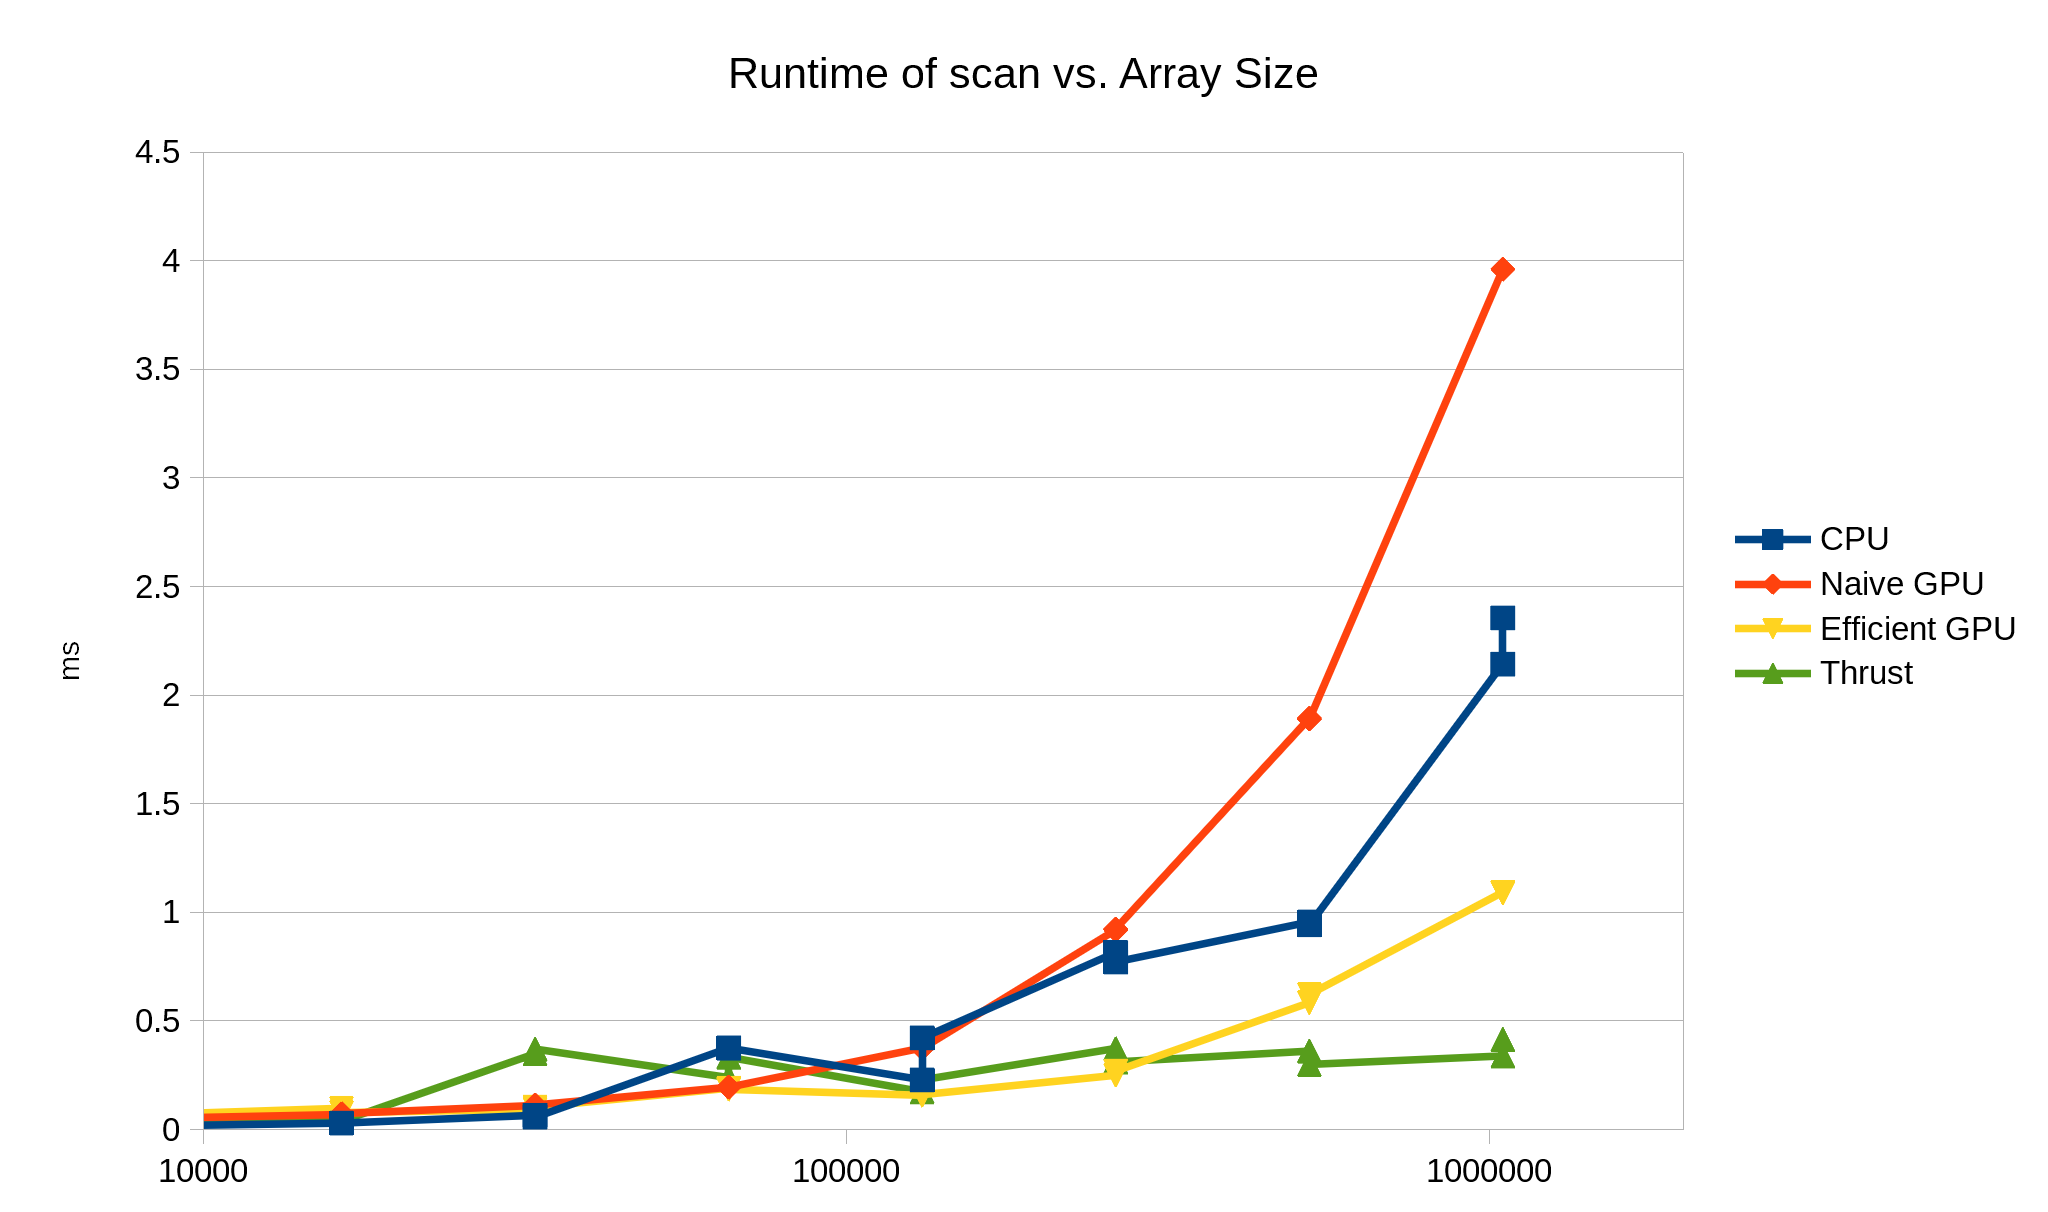
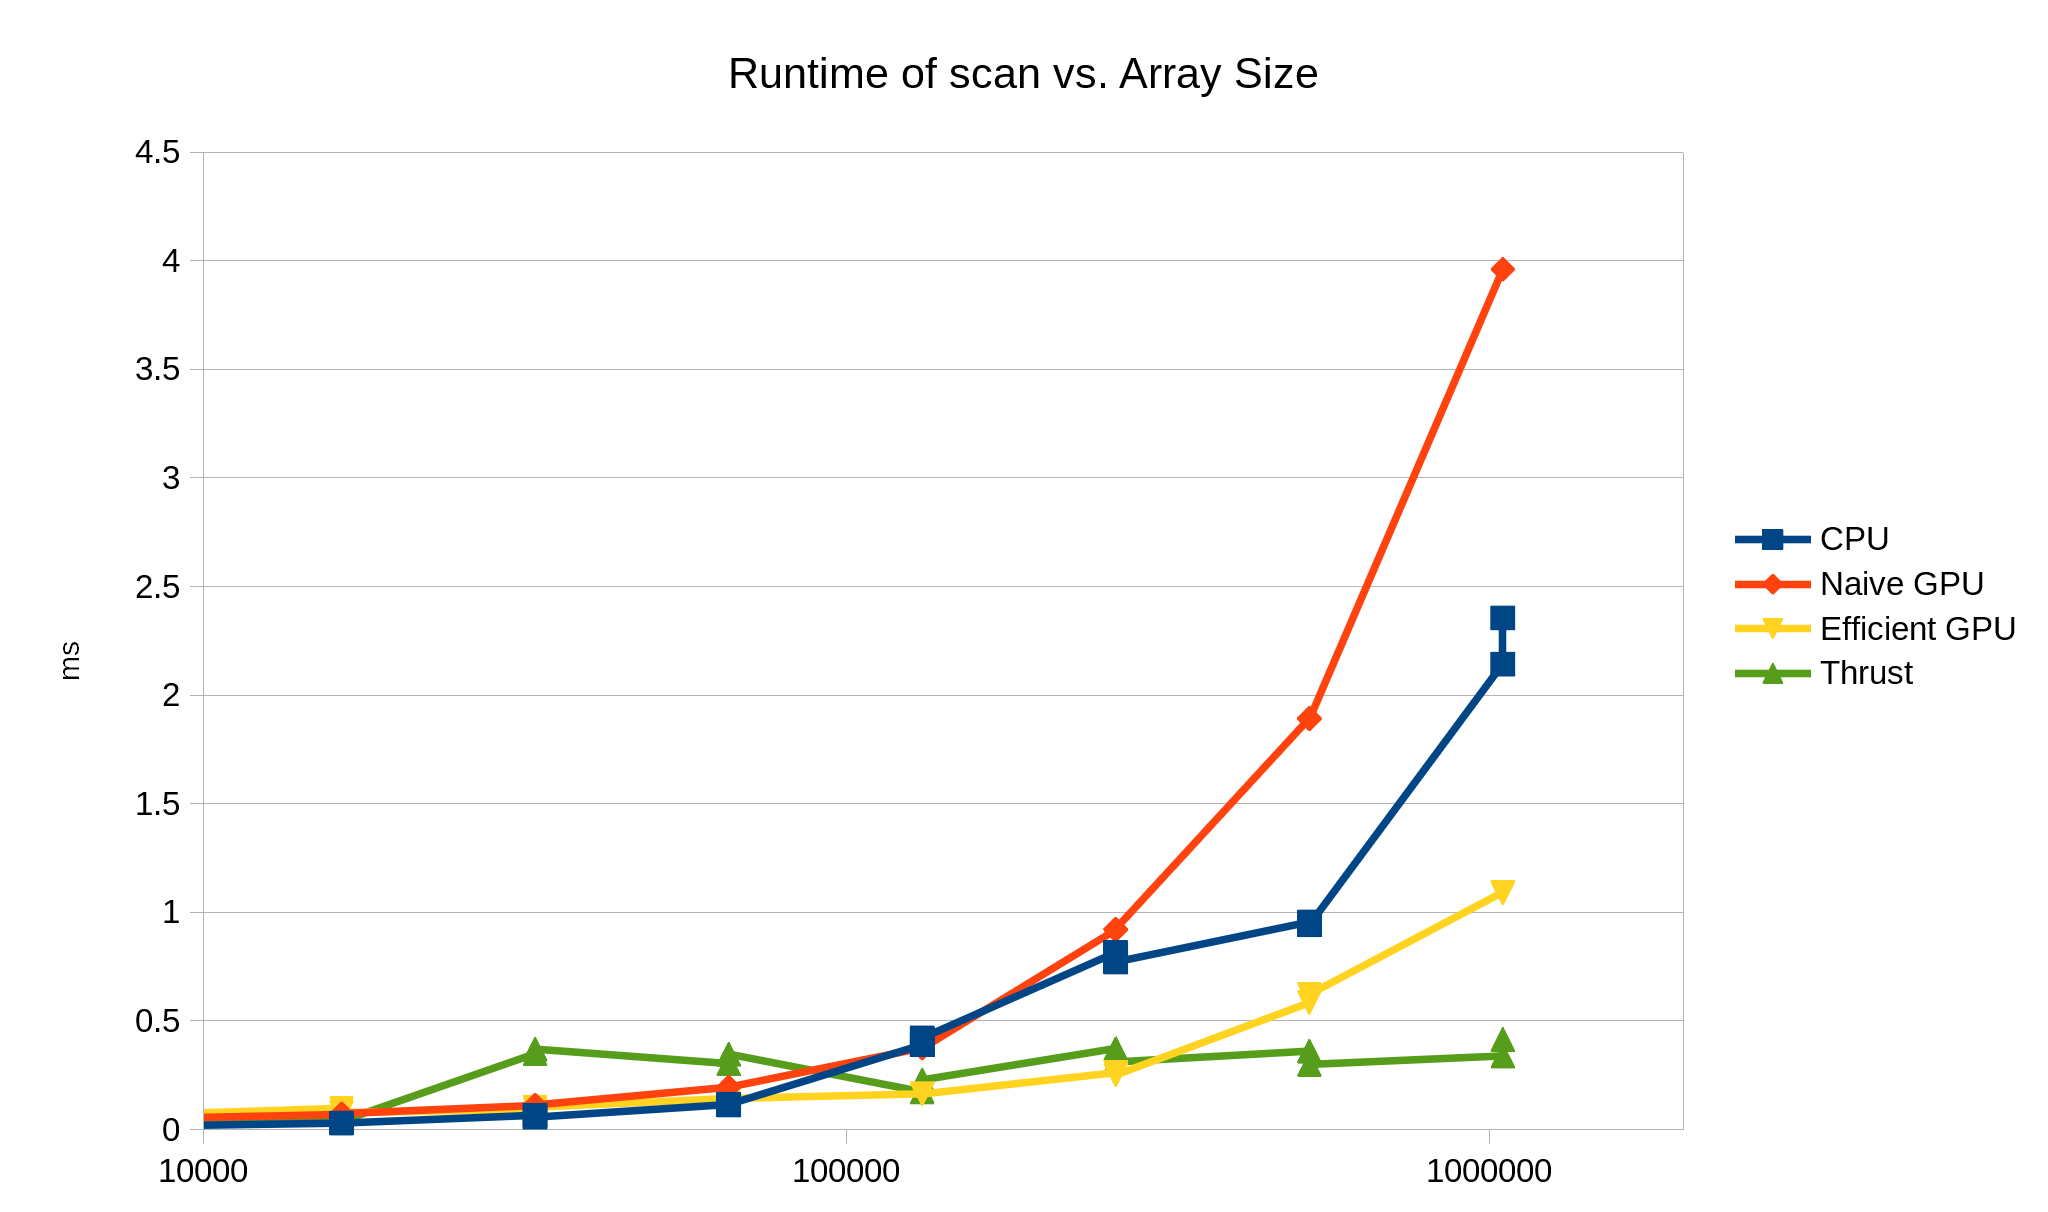
Add analysis for GPU vs. CPU

Changed region(s): [[0.25, 0.8548, 0.5312, 0.9464], [0.5312, 0.8548, 0.5938, 0.8853]]

diff --git a/src/main.cpp b/src/main.cpp
@@ -15,7 +15,7 @@
 #include <stream_compaction/radixSort.h>
 #include "testing_helpers.hpp"
 
-const int SIZE = 1 << 20; // feel free to change the size of array
+const int SIZE = 1 << 18; // feel free to change the size of array
 const int NPOT = SIZE - 3; // Non-Power-Of-Two
 int a[SIZE], b[SIZE], c[SIZE], sorted[SIZE];
 
@@ -28,7 +28,8 @@ int main(int argc, char* argv[]) {
     printf("** SCAN TESTS **\n");
     printf("****************\n");
 
-    genArray(SIZE - 1, a, 50);  // Leave a 0 at the end to test that edge case
+    for (int i = 0; i < SIZE - 1; i++) a[i] = 2 * i;
+    //genArray(SIZE - 1, a, 50);  // Leave a 0 at the end to test that edge case
     a[SIZE - 1] = 0;
     printArray(SIZE, a, true);
 

diff --git a/README.md b/README.md
@@ -46,6 +46,16 @@ Looking at just this view, it is hard to analyze the graph. Below is a view of o
 
 ![](img/array-all-lower.png)
 
+Here, we can see that for relatively small arrays (size < 10000), the serial CPU algorithm is clearly superior. Even Thrust's optimized GPU implementation cannot outperform the CPU. Interestingly, the work-efficient GPU scan also performs worse than the naive version.
 
+Regarding the CPU's superiority, we have to consider that the main benefit of the GPU implementations is that their parallel nature allow us to reduce a serial O(n) computation into one that is performed in something closer to O(log n) steps, since at each step, we process approximately half of the input we processed in the previous iteration. However, this incurs a significant overhead in terms of access to global memory and thread scheduling. It is likely that, for smaller arrays, this overhead is much too large and outweighs the benefit of the parallel algorithms.
+
+Similarly, the work-efficient GPU scan has increased overhead compared to the naive version, since it performs two passes over the array ("sweeps") instead of just one. This probably causes it to be slower than the naive implementation.
 
 ![](img/array-all-higher.png)
+
+On the other hand, for larger arrays (size >= 2^17), the Thrust and work-efficient GPU implementations start outperforming the CPU scan. The naive GPU scan, unfortunately, is never faster than the CPU scan. It is also noteworthy that the work-efficient GPU scan has comparable performance with the Thrust scan from sizes between 2^17 and 2^18.
+
+For larger sizes, the parallel nature of the GPU algorithms allows them to scale better than the CPU scan, making them outperform it in spite of the overhead mentioned above. The lack of work-efficiency in the naive scan exaggerates the effect of this overhead, such that it still cannot truly benefit from the parallel algorithm.
+
+
